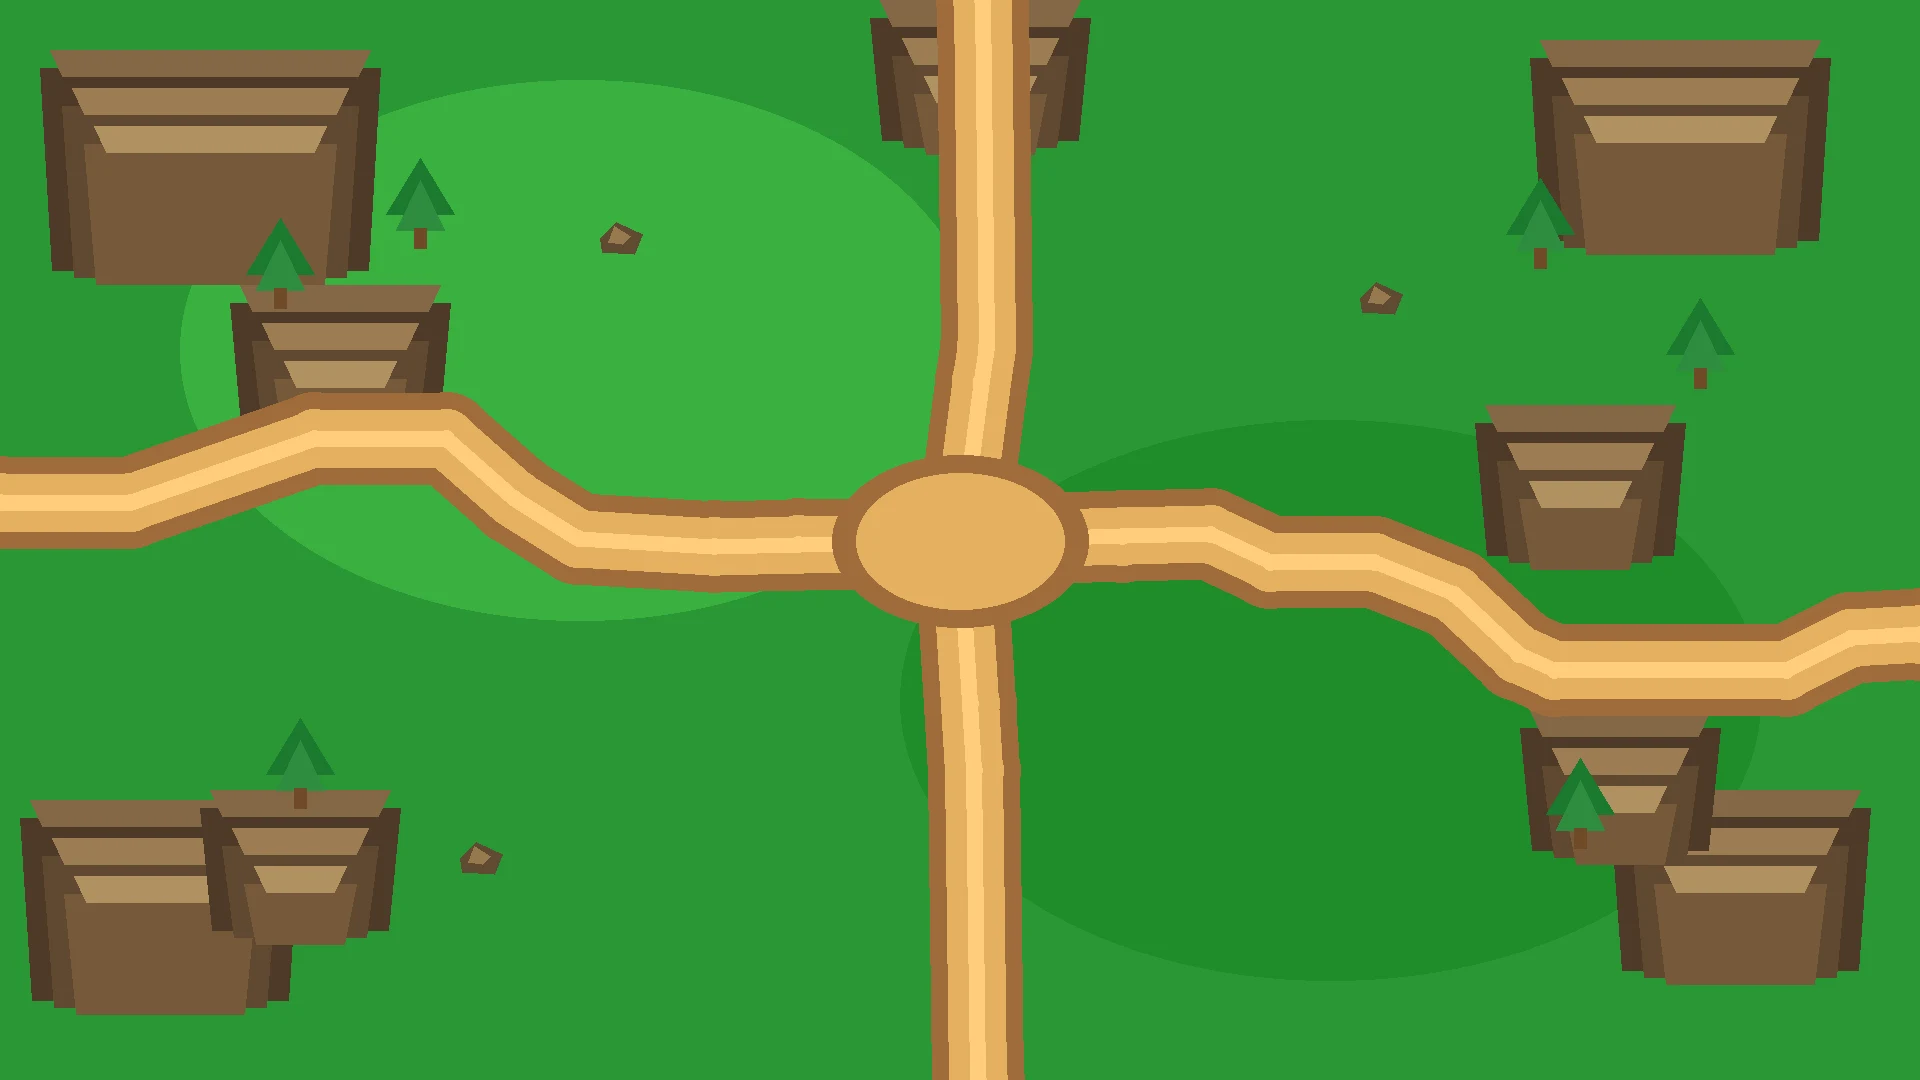
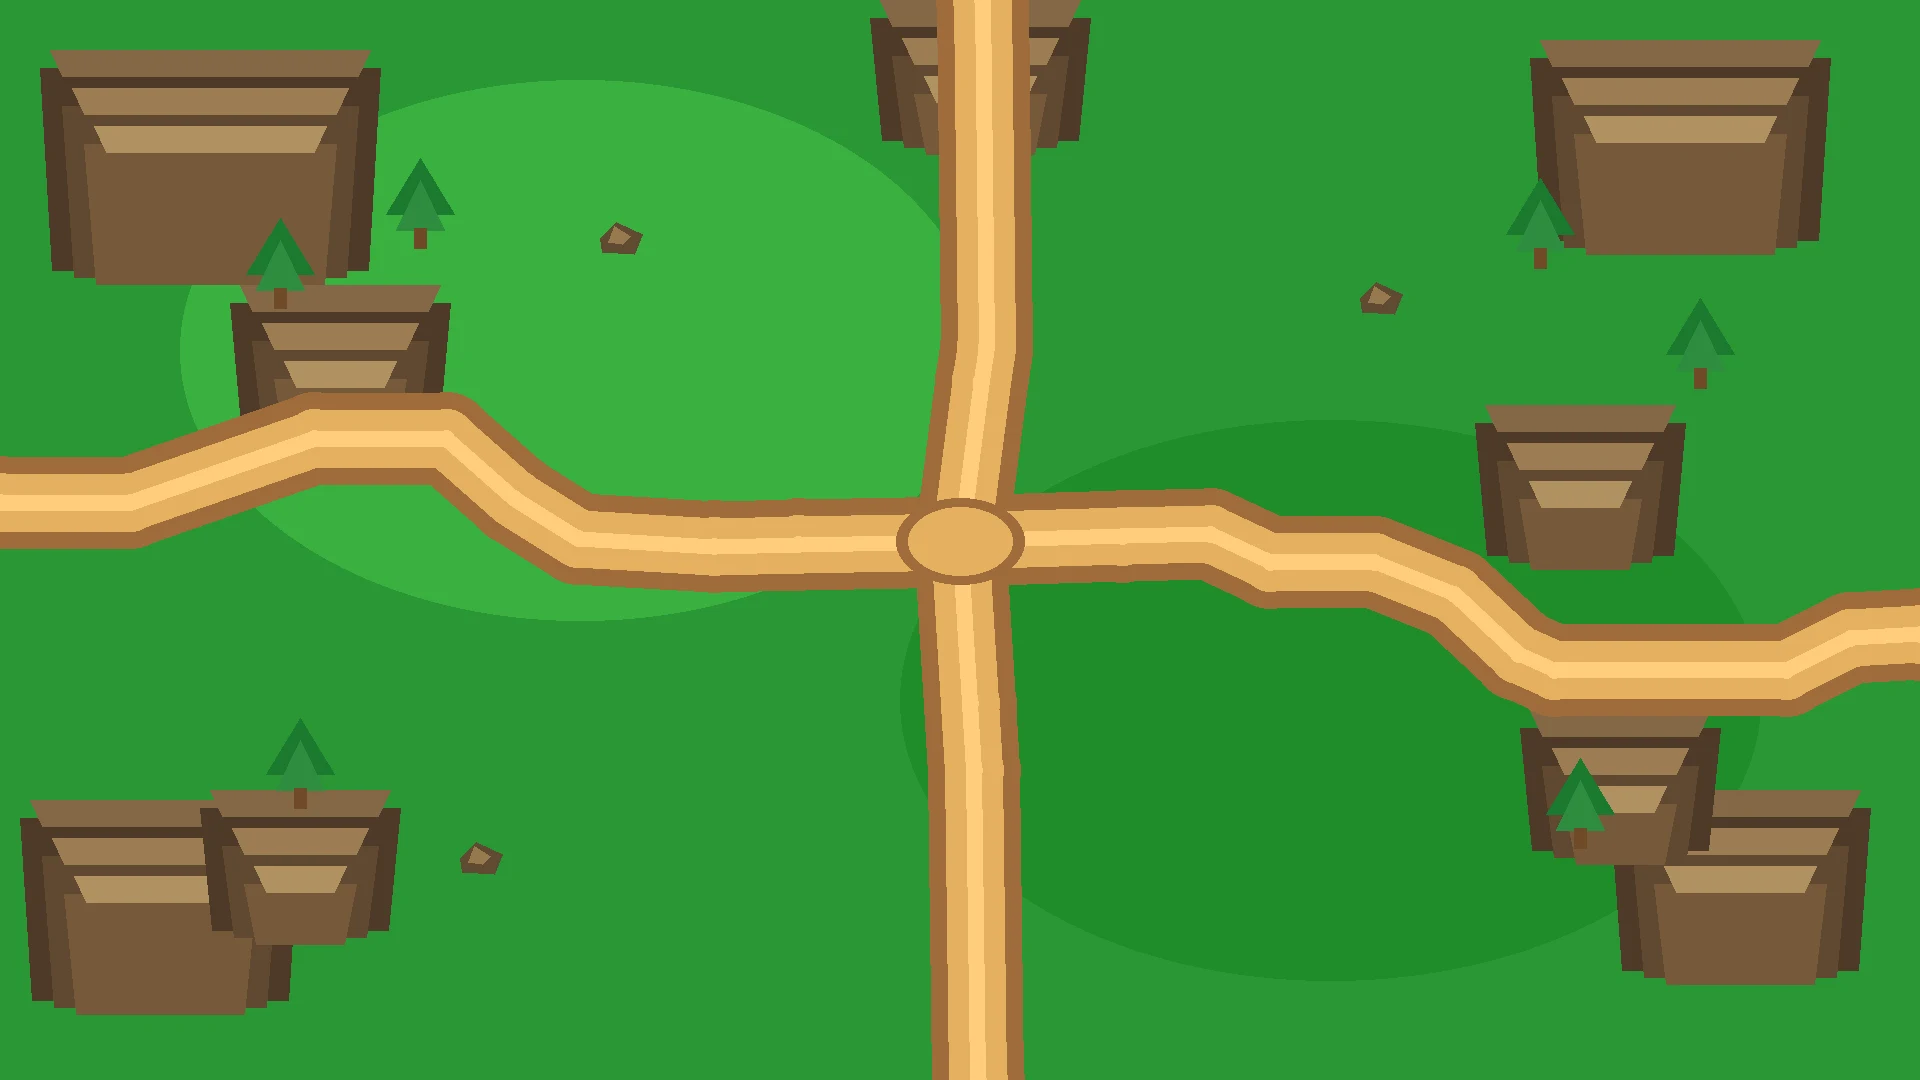
Enlarge lane arrows, separate pad labels, and shrink the Sunstone.
The arrow, badge, and count stay near 19% of the short screen side and slide off pads and the HUD. Station labels keep a gap on every valley, and raiders now strike a Sunstone half the old size.

Changed region(s): [[0.4062, 0.3972, 0.5938, 0.5806]]

diff --git a/sunstone-siege/src/hud.ts b/sunstone-siege/src/hud.ts
@@ -462,11 +462,20 @@ export class Hud {
     this.showTip = show;
   }
 
-  syncLanes(plans: LanePlan[], cam: { zoom: number; camX: number; camY: number }, building: boolean, offer: boolean): void {
+  private lanePads: { x: number; y: number }[] = [];
+
+  syncLanes(
+    plans: LanePlan[],
+    cam: { zoom: number; camX: number; camY: number },
+    building: boolean,
+    offer: boolean,
+    pads: { x: number; y: number }[] = [],
+  ): void {
     this.lanePlans = plans;
     this.laneCam = cam;
     this.laneBuilding = building;
     this.laneOffer = offer;
+    this.lanePads = pads;
   }
 
   announce(text: string): void {
@@ -1059,12 +1068,23 @@ export class Hud {
     this.ensureLanes(plans.length);
     for (let i = plans.length; i < this.laneNodes.length; i++) this.laneNodes[i].root.visible = false;
     const short = Math.min(this.w, this.h);
-    const k = (short * 0.12) / 176;
+    // Shaft, head, badge, and count span about 176*k. 0.19 keeps that near 19% of the short side.
+    const k = (short * 0.19) / 176;
     const vaultBottom = this.vault.y + this.vaultH + 8;
     const occupied = this.arrowBlocks();
+    const padBlocks: { x: number; y: number; w: number; h: number }[] = [];
+    const zoom = this.laneCam.zoom || 1;
+    for (const pad of this.lanePads) {
+      const block = {
+        x: this.laneCam.camX + (pad.x - 56) * zoom,
+        y: this.laneCam.camY + (pad.y - 54) * zoom,
+        w: 112 * zoom,
+        h: 156 * zoom,
+      };
+      padBlocks.push(block);
+      occupied.push(block);
+    }
     const placed: { x: number; y: number; ext: { minX: number; minY: number; maxX: number; maxY: number } }[] = [];
-    let callX = 0;
-    let callY = 0;
     let callN = 0;
     let tipAt: { x: number; y: number; plan: LanePlan } | null = null;
     for (let i = 0; i < plans.length; i++) {
@@ -1156,8 +1176,6 @@ export class Hud {
         sprite.visible = extras.length > 0 && node.extras.text.length < 42;
       });
       node.root.hitArea = new Rectangle(fit.ext.minX, fit.ext.minY, Math.max(40, fit.ext.maxX - fit.ext.minX), Math.max(40, fit.ext.maxY - fit.ext.minY));
-      callX += node.root.position.x;
-      callY += node.root.position.y;
       callN += 1;
       if (plan.path === this.openLane) tipAt = { x: node.root.position.x, y: node.root.position.y, plan };
     }
@@ -1165,15 +1183,23 @@ export class Hud {
       const compact = this.h < 480;
       this.callButton.scale.set(compact ? 0.78 : 1);
       const button = compact ? { minX: -100, maxX: 100, minY: -24, maxY: 24 } : { minX: -132, maxX: 132, minY: -30, maxY: 30 };
-      const low = placed.reduce((best, spot) => (spot.y + spot.ext.maxY > best.y + best.ext.maxY ? spot : best), placed[0]);
-      let x = callX / callN;
-      let y = low.y + low.ext.maxY + 46;
-      if (this.w < 760) {
-        x = Math.min(150, this.w * 0.38);
-        y = this.h - 64;
-      }
+      const narrow = this.w < 760;
+      const x = narrow ? Math.min(170, this.w * 0.42) : 176;
+      const y = narrow ? this.h * 0.555 : this.h - 56;
       const bounds = this.screenBounds(button);
-      const spot = this.clearOf(x, y, button, occupied, bounds, { x, y });
+      if (narrow) {
+        bounds.top = Math.max(bounds.top, this.h * 0.53);
+        bounds.bottom = Math.min(bounds.bottom, this.h * 0.575);
+      } else bounds.top = Math.max(bounds.top, this.h * 0.62);
+      const arrows = placed.map((spot) => ({
+        x: spot.x + spot.ext.minX - 8,
+        y: spot.y + spot.ext.minY - 8,
+        w: spot.ext.maxX - spot.ext.minX + 16,
+        h: spot.ext.maxY - spot.ext.minY + 16,
+      }));
+      const obstacles = [...this.arrowBlocks(false), ...arrows];
+      if (!narrow) obstacles.push(...padBlocks);
+      const spot = this.clearOf(x, y, button, obstacles, bounds, { x, y });
       this.callButton.position.set(spot.x, spot.y);
     }
     if (this.card.visible || !tipAt || !this.lanePlans.some((p) => p.path === this.openLane && p.state !== "gone")) {
@@ -1199,7 +1225,7 @@ export class Hud {
   }
 
   /** Screen rects an arrow must not cover: the top bar, the vault, the tower panel, and the corner buttons. */
-  private arrowBlocks(): { x: number; y: number; w: number; h: number }[] {
+  private arrowBlocks(includeCall = true): { x: number; y: number; w: number; h: number }[] {
     const blocks: { x: number; y: number; w: number; h: number }[] = [];
     blocks.push({ x: 0, y: 0, w: this.w, h: this.w < 760 ? 112 : 56 });
     const tip = this.showTip ? 36 : 2;
@@ -1212,6 +1238,16 @@ export class Hud {
       if (!btn.visible) continue;
       const p = btn.getGlobalPosition();
       blocks.push({ x: p.x - 58, y: p.y - 58, w: 116, h: 132 });
+    }
+    if (includeCall && this.callButton.visible) {
+      const p = this.callButton.getGlobalPosition();
+      const s = Math.abs(this.callButton.scale.x) || 1;
+      blocks.push({ x: p.x - 148 * s, y: p.y - 40 * s, w: 296 * s, h: 80 * s });
+    }
+    for (const text of [this.hint, this.banner]) {
+      if (!text.visible) continue;
+      const b = text.getBounds();
+      if (b.width > 8 && b.height > 8) blocks.push({ x: b.x - 8, y: b.y - 6, w: b.width + 16, h: b.height + 12 });
     }
     return blocks;
   }
@@ -1354,7 +1390,7 @@ export class Hud {
     g.clear();
     g.rotation = angle + wobble;
     const ink = 0x2a1608;
-    const outline = Math.max(2, 3.2 * k);
+    const outline = Math.max(4, 5.2 * k);
     const shaftH = 34 * k;
     const shaftX = -86 * k;
     const shaftW = 98 * k;

diff --git a/sunstone-siege/src/maps.ts b/sunstone-siege/src/maps.ts
@@ -10,6 +10,12 @@ export const MAP_W = 1920;
 export const MAP_H = 1080;
 export const SUN: Vec = { x: 960, y: 540 };
 
+/**
+ * The Sunstone disc and the rim raiders strike. Half the old plaza, so the
+ * base stays readable next to a Skitter without covering the junction.
+ */
+export const SUN_SCALE = 0.5;
+
 export interface MapDef {
   biome: Biome;
   sun: Vec;
@@ -19,15 +25,121 @@ export interface MapDef {
   pads: Vec[];
 }
 
+/** Pull the last waypoint in to the smaller rim, along the same approach. */
+function arrive(route: Route, sun: Vec, rim: number): Route {
+  const pts = route.pts.map((p) => ({ x: p.x, y: p.y }));
+  const last = pts[pts.length - 1];
+  const dx = last.x - sun.x;
+  const dy = last.y - sun.y;
+  const dist = Math.hypot(dx, dy) || 1;
+  if (dist > rim + 1) {
+    pts[pts.length - 1] = { x: sun.x + (dx / dist) * rim, y: sun.y + (dy / dist) * rim };
+  }
+  return routeOf(pts);
+}
+
 function build(biome: Biome, sun: Vec, plaza: number, routes: Route[], pads: readonly Vec[]): MapDef {
+  const rim = plaza * SUN_SCALE;
+  const arrived = routes.map((route) => arrive(route, sun, rim));
   return {
     biome,
     sun,
-    plaza,
-    routes,
-    flights: routes.map((route) => flightOf(route, sun)),
+    plaza: rim,
+    routes: arrived,
+    flights: arrived.map((route) => flightOf(route, sun)),
     pads: pads.slice(),
   };
+}
+
+/**
+ * A pad's dashed square plus the cost pill under it.
+ * Walls only reserve the barricade and its short pill, so a pad can sit beside the trail.
+ * The gap is the air that has to stay clear between one label and the next.
+ */
+const PAD_BOX = { left: 52, right: 52, top: 50, bottom: 94 };
+const WALL_BOX = { left: 44, right: 44, top: 22, bottom: 58 };
+const PAD_GAP = 18;
+
+export interface GapSpot {
+  x: number;
+  y: number;
+  fixed: boolean;
+  wall?: boolean;
+}
+
+/**
+ * Nudge stations until no cost pill touches another pad, a wall label, or the
+ * Sunstone. Walls stay on the trail. Every pad is kept, only moved.
+ */
+function boxOf(spot: GapSpot): { left: number; right: number; top: number; bottom: number } {
+  return spot.wall ? WALL_BOX : PAD_BOX;
+}
+
+export function clearStationGaps(spots: GapSpot[], sun: Vec, plaza: number): void {
+  const home = spots.map((s) => ({ x: s.x, y: s.y }));
+  const reach = plaza + 56;
+  for (let n = 0; n < 16; n++) {
+    for (const spot of spots) {
+      if (spot.fixed) continue;
+      const dx = spot.x - sun.x;
+      const dy = spot.y - sun.y;
+      const dist = Math.hypot(dx, dy) || 1;
+      if (dist < reach) {
+        spot.x = sun.x + (dx / dist) * reach;
+        spot.y = sun.y + (dy / dist) * reach;
+      }
+      spot.x = Math.max(78, Math.min(MAP_W - 78, spot.x));
+      spot.y = Math.max(78, Math.min(MAP_H - 120, spot.y));
+    }
+    for (let i = 0; i < spots.length; i++) {
+      for (let j = i + 1; j < spots.length; j++) {
+        const a = spots[i];
+        const b = spots[j];
+        if (a.fixed && b.fixed) continue;
+        const ab = boxOf(a);
+        const bb = boxOf(b);
+        const ax0 = a.x - ab.left - PAD_GAP / 2;
+        const ax1 = a.x + ab.right + PAD_GAP / 2;
+        const ay0 = a.y - ab.top - PAD_GAP / 2;
+        const ay1 = a.y + ab.bottom + PAD_GAP / 2;
+        const bx0 = b.x - bb.left - PAD_GAP / 2;
+        const bx1 = b.x + bb.right + PAD_GAP / 2;
+        const by0 = b.y - bb.top - PAD_GAP / 2;
+        const by1 = b.y + bb.bottom + PAD_GAP / 2;
+        const ox = Math.min(ax1, bx1) - Math.max(ax0, bx0);
+        const oy = Math.min(ay1, by1) - Math.max(ay0, by0);
+        if (ox <= 0 || oy <= 0) continue;
+        const signX = a.x === b.x ? (i % 2 === 0 ? 1 : -1) : Math.sign(a.x - b.x);
+        const signY = a.y === b.y ? 1 : Math.sign(a.y - b.y);
+        const alongX = ox < oy;
+        const push = alongX ? ox : oy;
+        const sign = alongX ? signX : signY;
+        if (a.fixed) {
+          if (alongX) b.x -= sign * push;
+          else b.y -= sign * push;
+        } else if (b.fixed) {
+          if (alongX) a.x += sign * push;
+          else a.y += sign * push;
+        } else if (alongX) {
+          a.x += sign * push * 0.5;
+          b.x -= sign * push * 0.5;
+        } else {
+          a.y += sign * push * 0.5;
+          b.y -= sign * push * 0.5;
+        }
+      }
+    }
+    for (let i = 0; i < spots.length; i++) {
+      if (spots[i].fixed) continue;
+      const dx = spots[i].x - home[i].x;
+      const dy = spots[i].y - home[i].y;
+      const drift = Math.hypot(dx, dy);
+      if (drift > 88) {
+        spots[i].x = home[i].x + (dx / drift) * 88;
+        spots[i].y = home[i].y + (dy / drift) * 88;
+      }
+    }
+  }
 }
 
 const valley: MapDef = build("valley", { x: 960.0, y: 541.0 }, 162.0, [

diff --git a/sunstone-siege/src/sim.ts b/sunstone-siege/src/sim.ts
@@ -4,7 +4,7 @@
  */
 import { BALANCE, TOWER_HUE, towerCost, towerRange, type RelicDef } from "./balance";
 import { poseAt, type Route } from "./geom";
-import { MAP_H, MAP_W, mapDef, type MapDef } from "./maps";
+import { clearStationGaps, MAP_H, MAP_W, mapDef, type MapDef } from "./maps";
 import type { EnemyKind, Phase, RelicId, TowerKind, Vec } from "./types";
 
 export type StationKind = TowerKind | "wall" | "barracks";
@@ -1597,6 +1597,17 @@ export class Siege {
         maxHp: 0,
         alive: false,
       });
+    });
+    const spots = stations.map((station) => ({
+      x: station.x,
+      y: station.y,
+      fixed: station.kind === "wall",
+      wall: station.kind === "wall",
+    }));
+    clearStationGaps(spots, this.map.sun, this.map.plaza);
+    stations.forEach((station, i) => {
+      station.x = spots[i].x;
+      station.y = spots[i].y;
     });
     return stations;
   }

diff --git a/sunstone-siege/src/main.ts b/sunstone-siege/src/main.ts
@@ -618,7 +618,13 @@ async function boot(): Promise<void> {
     const goal = nextSpend(live);
     hud.setGoal(goal.text, goal.cost, goal.lit, goal.kind);
     hud.setVaultTip(world === 0 && save.taught === 0 && live.phase === "build" && !live.pendingOffer && view.menuPad < 0);
-    hud.syncLanes(live.lanePlan(), { zoom, camX, camY }, live.phase === "build", live.pendingOffer !== null);
+    hud.syncLanes(
+      live.lanePlan(),
+      { zoom, camX, camY },
+      live.phase === "build",
+      live.pendingOffer !== null,
+      live.stations.map((s) => ({ x: s.x, y: s.y })),
+    );
     const boss = live.enemies.find((e) => e.alive && e.boss);
     hud.sync({
       integrity: live.integrity,
